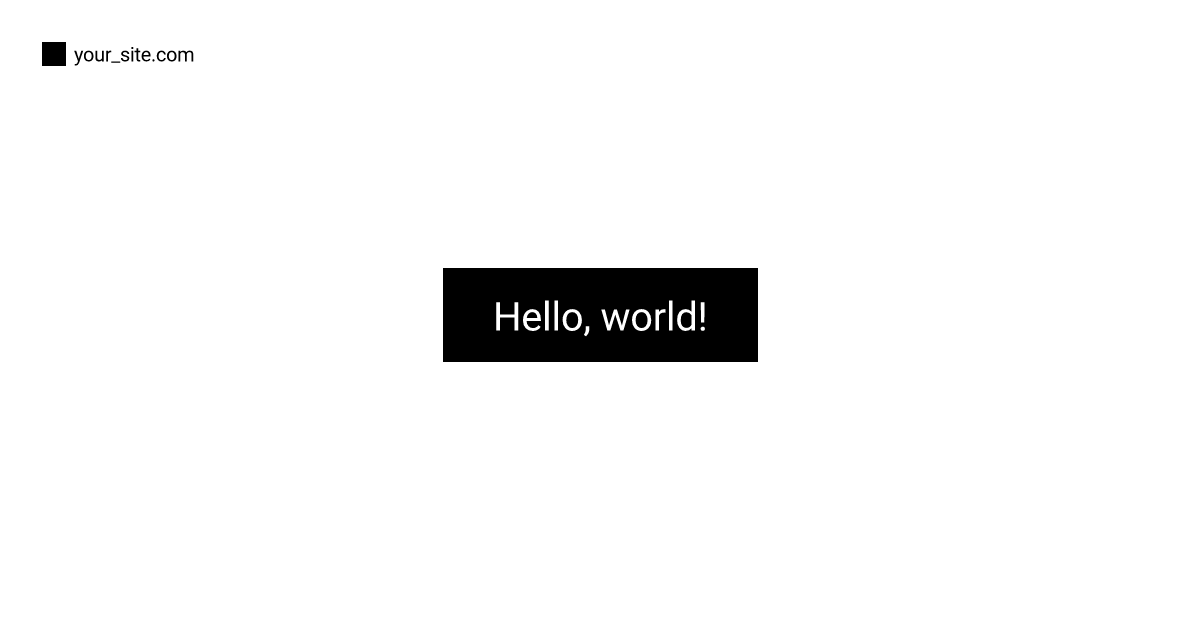
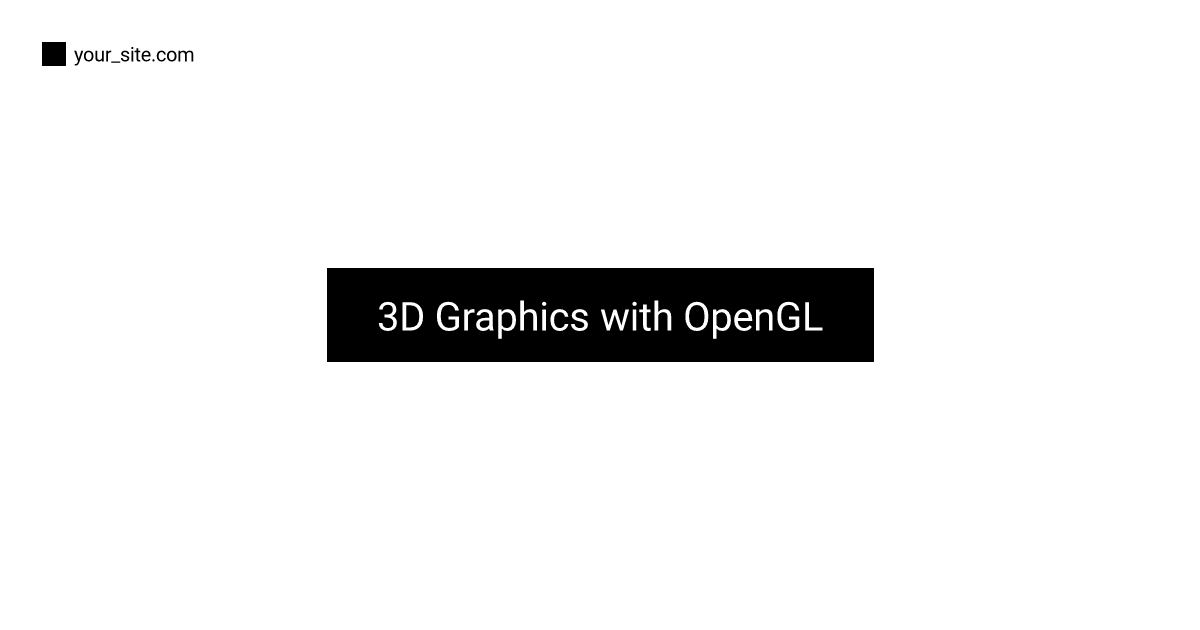
docs: update images

Changed region(s): [[0.2467, 0.4222, 0.74, 0.573]]

diff --git a/src/presets/renderExamples.ts b/src/presets/renderExamples.ts
@@ -7,8 +7,8 @@ import * as fs from "fs";
 // Run with `npx tsx src/presets/renderExamples.ts`
 async function renderExamples() {
   const page = {
-    title: "Hello, world!",
-    description: "This is a description",
+    title: "3D Graphics with OpenGL",
+    description: "An introduction to 3D graphics rendering and OpenGL.",
     pathname: "empty",
   };
 
